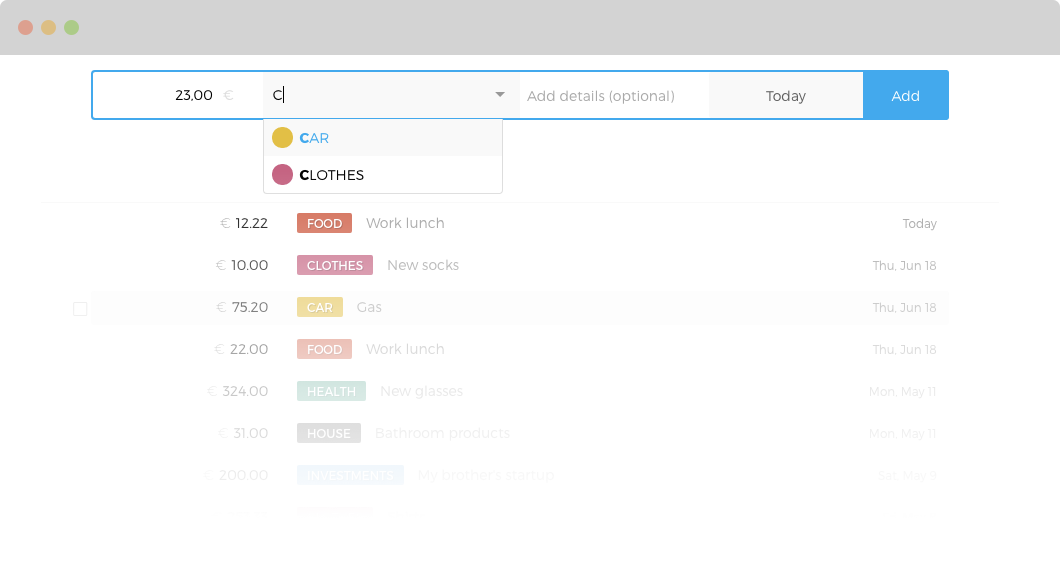
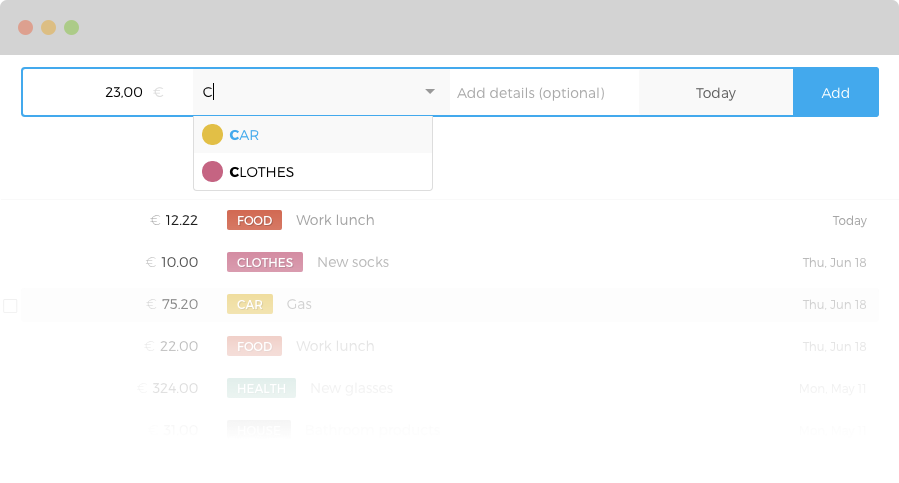
Landing page.

diff --git a/src/app/site/sass/_site_common.scss b/src/app/site/sass/_site_common.scss
@@ -2,6 +2,7 @@
   text-align: center;
   padding: 30px 0;
   background-color: $white;
+  height: 100vh;
 
   &:last-of-type {
     padding-bottom: $footer__home-height;
@@ -11,15 +12,13 @@
     margin: 0;
   }
 }
-.site__container--fullheight {
-  @include calc("height", 100vh - #{$header-height});
-}
 
 .site__container--homemain {
   position: relative;
   background: $landing-page;
+  padding-top: 10px;
 
-  h1, h2, h3 {
+  h1, h2 {
     color: $white;
   }
 }

diff --git a/src/app/site/sass/_site_home.scss b/src/app/site/sass/_site_home.scss
@@ -7,7 +7,7 @@
 
 .home__description {
   padding: 5px 10px 20px 10px;
-  color: lighten($brand-primary, 30%);
+  color: lighten($landing-page, 20%);
   font-size: 22px;
   font-weight: $font-weight-light;
   font-family: $base-font-family;
@@ -51,7 +51,7 @@
 }
 
 .home__section__tour-screenmain {
-  height: 55vh;
+  max-height: 55vh;
   @include fadeInUp();
 }
 

diff --git a/src/sass/bitters/_variables.scss b/src/sass/bitters/_variables.scss
@@ -3,7 +3,8 @@
 //$base-font-family: "Lato", "Verdana", "Roboto", "Arial", sans-serif;
 //$base-font-family: museo-sans, "Arial", sans-serif;
 $base-font-family: "Montserrat", "Arial", sans-serif;
-$heading-font-family: museo-slab, serif;
+$heading-font-family: $base-font-family;
+//$heading-font-family: museo-slab, serif;
 
 // Font Sizes
 $font-size-base: 14px;

diff --git a/src/app/site/partials/home.html b/src/app/site/partials/home.html
@@ -1,6 +1,6 @@
-<div header-home></div>
+<div class="site__container site__container--homemain">
 
-<div class="site__container site__container--homemain site__container--fullheight">
+    <div header-home></div>
 
     <div class="site__container__section">
 
